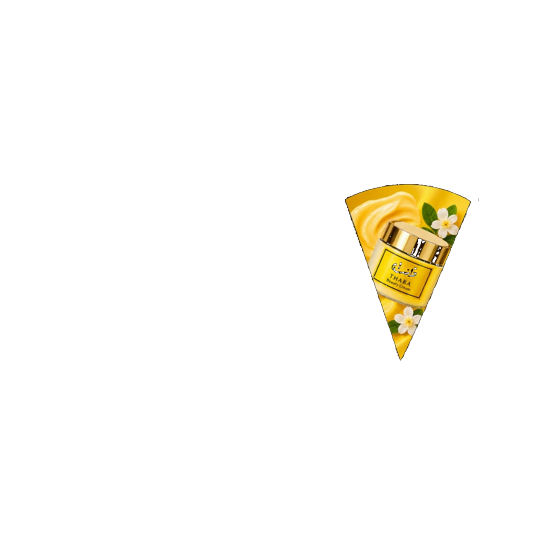
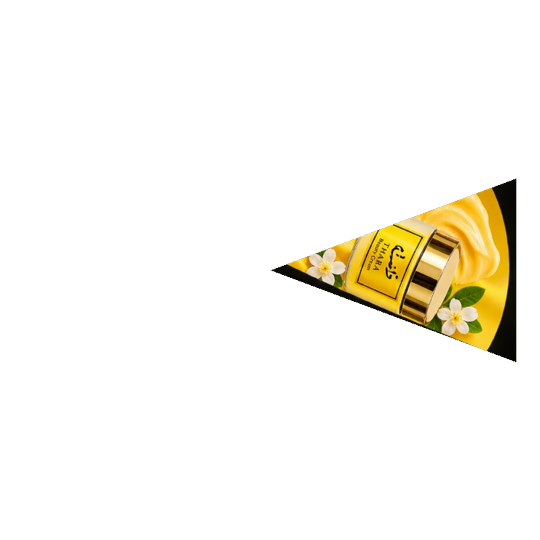
Restore full 100% wedge slice graphics and position uncropped text tags right above triangle slice base

Changed region(s): [[0.5037, 0.3259, 0.9778, 0.6815]]

diff --git a/frontend/src/components/SpinWheelCanvas.jsx b/frontend/src/components/SpinWheelCanvas.jsx
@@ -198,14 +198,12 @@ const SpinWheelCanvas = ({ prizes, winningIndex, isSpinning, onSpinComplete }) =
       ctx.stroke();
       ctx.restore();
 
-      // 3. Draw Pastel Segments with Perfect Wedge Clipping & Upright Image / Text Badges
+      // 3. Draw Pastel Segments with Perfect Full Wedge Graphics & Black Text Badges
       activePrizes.forEach((prize, i) => {
         if (!prize) return;
         const startAngle = angleOffset + i * arcSize;
         const endAngle = startAngle + arcSize;
         const textAngle = startAngle + arcSize / 2;
-        const normAngle = ((textAngle % (2 * Math.PI)) + 2 * Math.PI) % (2 * Math.PI);
-        const isLeftHalf = normAngle > Math.PI / 2 && normAngle < (3 * Math.PI) / 2;
 
         // Clip to exact triangle slice wedge path
         ctx.save();
@@ -224,10 +222,10 @@ const SpinWheelCanvas = ({ prizes, winningIndex, isSpinning, onSpinComplete }) =
         ctx.lineWidth = 3;
         ctx.stroke();
 
-        // Clip context to exact triangle wedge so image fills slice completely
+        // Clip context to exact triangle wedge so full wedge graphic fills slice 100%
         ctx.clip();
 
-        // Draw Prize Slice Wedge Image (Upright orientation for all 8 slices)
+        // Draw Prize Full Slice Wedge Graphic
         const pKey = prize.id || prize.name;
         const prizeImg = loadedImages[pKey];
         
@@ -235,8 +233,6 @@ const SpinWheelCanvas = ({ prizes, winningIndex, isSpinning, onSpinComplete }) =
           try {
             ctx.save();
             ctx.translate(centerX, centerY);
-            
-            // Draw image rotated cleanly along textAngle
             ctx.rotate(textAngle);
 
             const imgSize = outerRadius * 2;
@@ -249,17 +245,14 @@ const SpinWheelCanvas = ({ prizes, winningIndex, isSpinning, onSpinComplete }) =
 
         ctx.restore(); // Restore wedge clip context
 
-        // Draw Prize Label Text Badge (100% Flat Horizontal Tag - Exact same direction for ALL 8 slices)
+        // Draw Prize Label Text Badge (Pure Black Box right above the base of triangle slice)
         try {
           ctx.save();
           ctx.translate(centerX, centerY);
+          ctx.rotate(textAngle);
 
-          const textRadius = outerRadius - 36;
-          const tx = textRadius * Math.cos(textAngle);
-          const ty = textRadius * Math.sin(textAngle);
-          ctx.translate(tx, ty);
-
-          // Zero rotation: ALL text badges face 100% flat horizontal left-to-right!
+          const textRadius = outerRadius - 35;
+          ctx.translate(textRadius, 0);
 
           const pName = prize.name || '';
           let label = pName;
@@ -278,7 +271,7 @@ const SpinWheelCanvas = ({ prizes, winningIndex, isSpinning, onSpinComplete }) =
           const textMetrics = ctx.measureText(label);
           const textWidth = textMetrics.width;
           const paddingX = 8;
-          const tagW = Math.min(textWidth + paddingX * 2, 110);
+          const tagW = Math.min(textWidth + paddingX * 2, 105);
           const tagH = 22;
 
           // Pure Black Tag Box with White Border (Exact match to reference 'perfume' tag)
